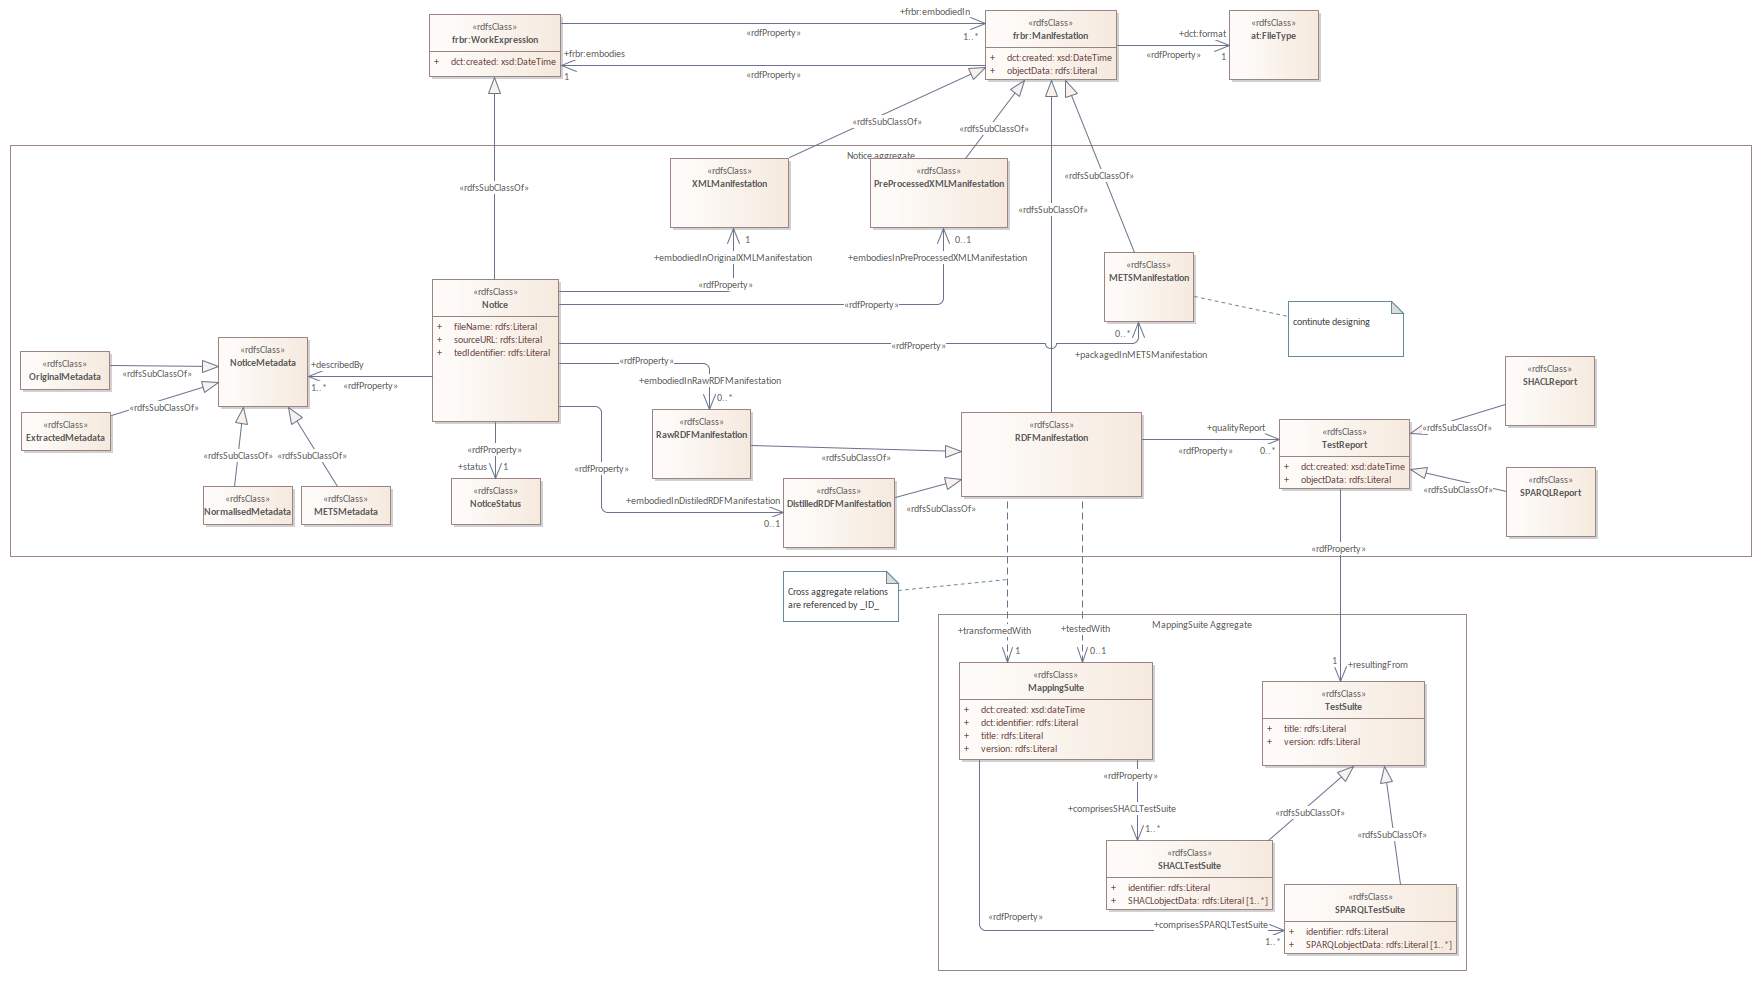
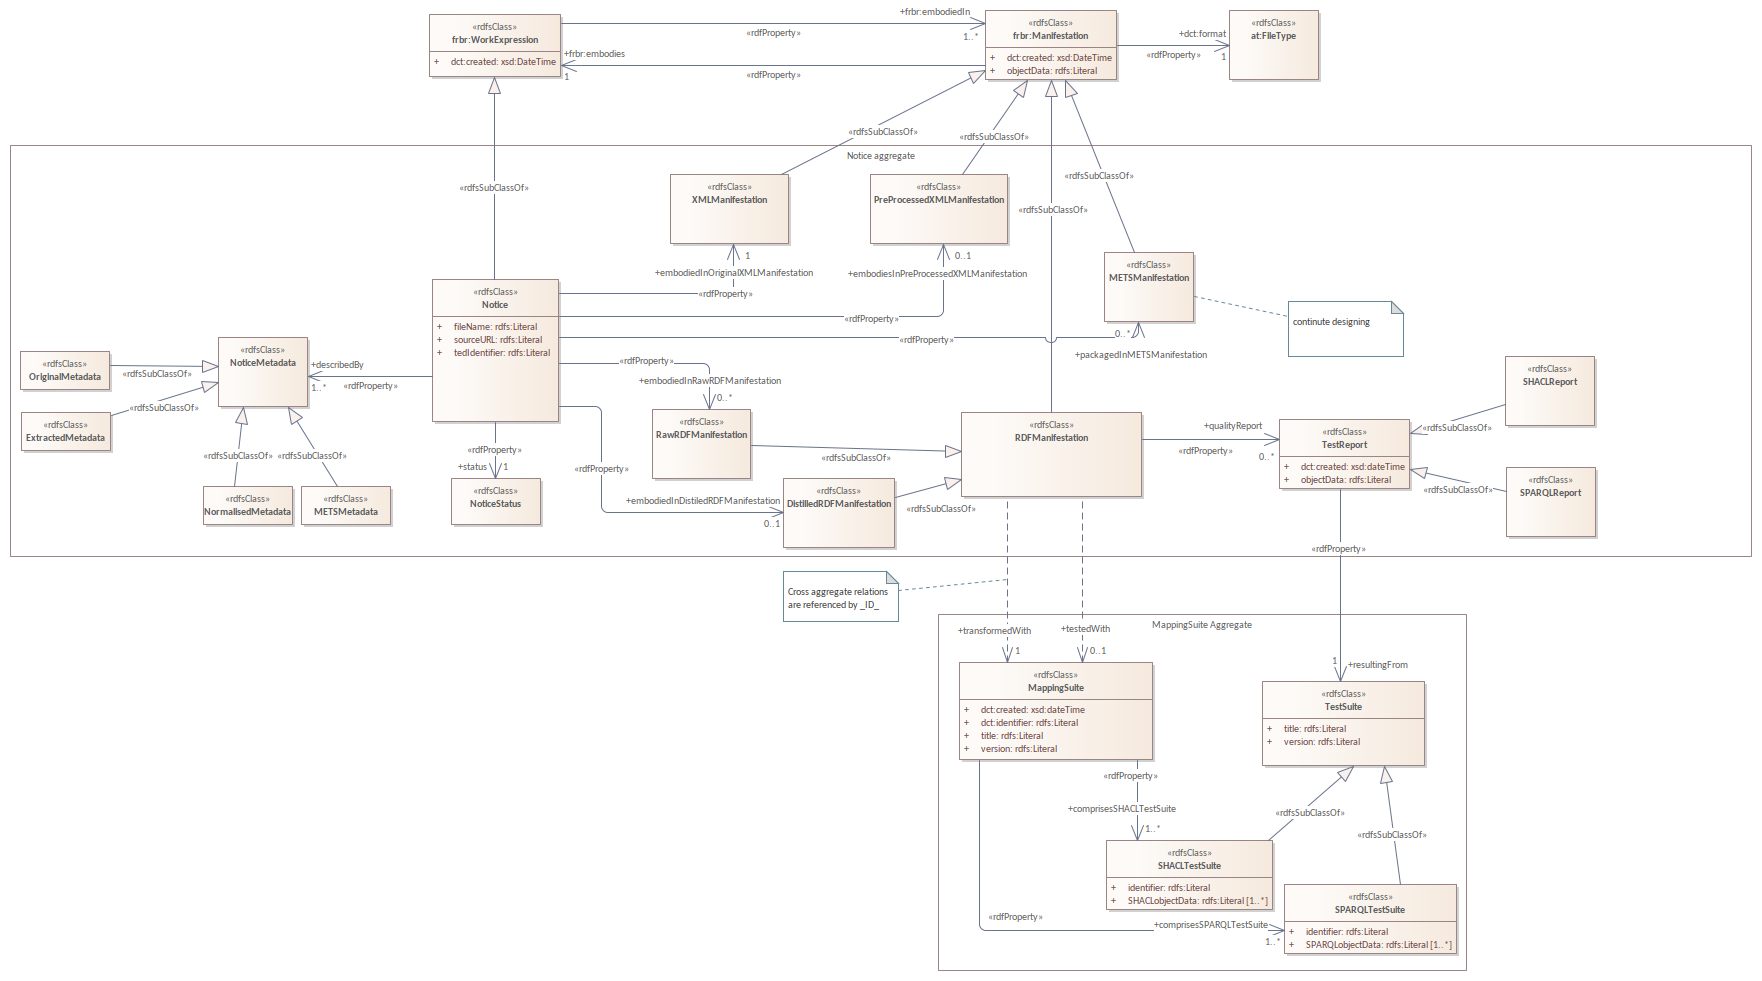
extend mapping workflow architecture

diff --git a/docs/antora/modules/ROOT/attachments/ted-sws-architecture/EARoot/EA1/EA4/EA304.html b/docs/antora/modules/ROOT/attachments/ted-sws-architecture/EARoot/EA1/EA4/EA304.html
@@ -40,8 +40,8 @@ function nameClassifier(name, separator)
 <area shape="rect" coords="1506,467,1596,537" href="./EA5/EA376.html" target="_self">
 <area shape="rect" coords="652,409,751,479" href="EA323.html" target="_self">
 <area shape="rect" coords="783,478,895,548" href="EA317.html" target="_self">
-<area shape="rect" coords="870,158,1008,228" href="EA322.html" target="_self">
-<area shape="rect" coords="670,158,789,228" href="./EA1/EA337.html" target="_self">
+<area shape="rect" coords="870,174,1008,244" href="EA322.html" target="_self">
+<area shape="rect" coords="670,174,789,244" href="./EA1/EA337.html" target="_self">
 <area shape="rect" coords="218,337,308,407" href="./EA2/EA342.html" target="_self">
 <area shape="rect" coords="783,571,898,621" href="EA315.html" target="_self">
 <area shape="rect" coords="432,279,559,422" href="./EA1/EA335.html" target="_self">
@@ -73,7 +73,7 @@ function nameClassifier(name, separator)
 		</tr>
 		<tr>
 			<td width="15%" class="ObjectDetailsTopic">Modified:</td>
-			<td width="85%" class="ObjectDetailsValue">01/04/2022 10:05:29</td>
+			<td width="85%" class="ObjectDetailsValue">04/04/2022 09:43:07</td>
 		</tr>
 		<tr style="padding-top: 10px;">
 			<td width="15%" class="ObjectDetailsTopic"><img src="../../../images/plus03.gif" align="absmiddle" id="proj" onclick="parent.toggleData(this.id)" />Project:</td>

diff --git a/docs/antora/modules/ROOT/attachments/ted-sws-architecture/EARoot/EA1/EA2/EA5/EA155.html b/docs/antora/modules/ROOT/attachments/ted-sws-architecture/EARoot/EA1/EA2/EA5/EA155.html
@@ -62,7 +62,7 @@ function nameClassifier(name, separator)
 		</tr>
 		<tr>
 			<td width="15%" class="ObjectDetailsTopic">Modified:</td>
-			<td width="85%" class="ObjectDetailsValue">01/03/2022 21:26:18</td>
+			<td width="85%" class="ObjectDetailsValue">04/04/2022 10:38:31</td>
 		</tr>
 		<tr style="padding-top: 10px;">
 			<td width="15%" class="ObjectDetailsTopic"><img src="../../../../images/plus03.gif" align="absmiddle" id="proj" onclick="parent.toggleData(this.id)" />Project:</td>

diff --git a/docs/antora/modules/ROOT/attachments/ted-sws-architecture/EARoot/EA1/EA3/EA5/EA272.html b/docs/antora/modules/ROOT/attachments/ted-sws-architecture/EARoot/EA1/EA3/EA5/EA272.html
@@ -66,7 +66,7 @@ function nameClassifier(name, separator)
 		</tr>
 		<tr>
 			<td width="15%" class="ObjectDetailsTopic">Modified:</td>
-			<td width="85%" class="ObjectDetailsValue">01/04/2022 10:13:00</td>
+			<td width="85%" class="ObjectDetailsValue">04/04/2022 10:45:42</td>
 		</tr>
 		<tr style="padding-top: 10px;">
 			<td width="15%" class="ObjectDetailsTopic"><img src="../../../../images/plus03.gif" align="absmiddle" id="proj" onclick="parent.toggleData(this.id)" />Project:</td>

diff --git a/docs/antora/modules/ROOT/attachments/ted-sws-architecture/EARoot/EA1/EA1/EA36.html b/docs/antora/modules/ROOT/attachments/ted-sws-architecture/EARoot/EA1/EA1/EA36.html
@@ -67,7 +67,7 @@ function nameClassifier(name, separator)
 		</tr>
 		<tr>
 			<td width="15%" class="ObjectDetailsTopic">Modified:</td>
-			<td width="85%" class="ObjectDetailsValue">19/03/2022 13:27:03</td>
+			<td width="85%" class="ObjectDetailsValue">04/04/2022 18:25:59</td>
 		</tr>
 		<tr style="padding-top: 10px;">
 			<td width="15%" class="ObjectDetailsTopic"><img src="../../../images/plus03.gif" align="absmiddle" id="proj" onclick="parent.toggleData(this.id)" />Project:</td>

diff --git a/docs/antora/modules/ROOT/attachments/ted-sws-architecture/EARoot/EA2/EA1/EA420.html b/docs/antora/modules/ROOT/attachments/ted-sws-architecture/EARoot/EA2/EA1/EA420.html
@@ -71,7 +71,7 @@ function nameClassifier(name, separator)
 		</tr>
 		<tr>
 			<td width="15%" class="ObjectDetailsTopic">Modified:</td>
-			<td width="85%" class="ObjectDetailsValue">01/04/2022 13:46:58</td>
+			<td width="85%" class="ObjectDetailsValue">04/04/2022 17:48:55</td>
 		</tr>
 		<tr style="padding-top: 10px;">
 			<td width="15%" class="ObjectDetailsTopic"><img src="../../../images/plus03.gif" align="absmiddle" id="proj" onclick="parent.toggleData(this.id)" />Project:</td>

diff --git a/docs/antora/modules/ROOT/attachments/ted-sws-architecture/index.html b/docs/antora/modules/ROOT/attachments/ted-sws-architecture/index.html
@@ -6,7 +6,7 @@
 <link href="css/ea.css" rel="stylesheet" type="text/css" />
 <script language="JavaScript" src="js/displayToc.js" type="text/javascript"></script>
 </head>
-<body onload="initLoad(this,'toc.html','blank.html')" onresize="resizePage()">
+<body onload="initLoad(this,'toc.html','./EARoot/EA1/EA1.html')" onresize="resizePage()">
 <div class="IndexTitle">
 	Model
 </div>
